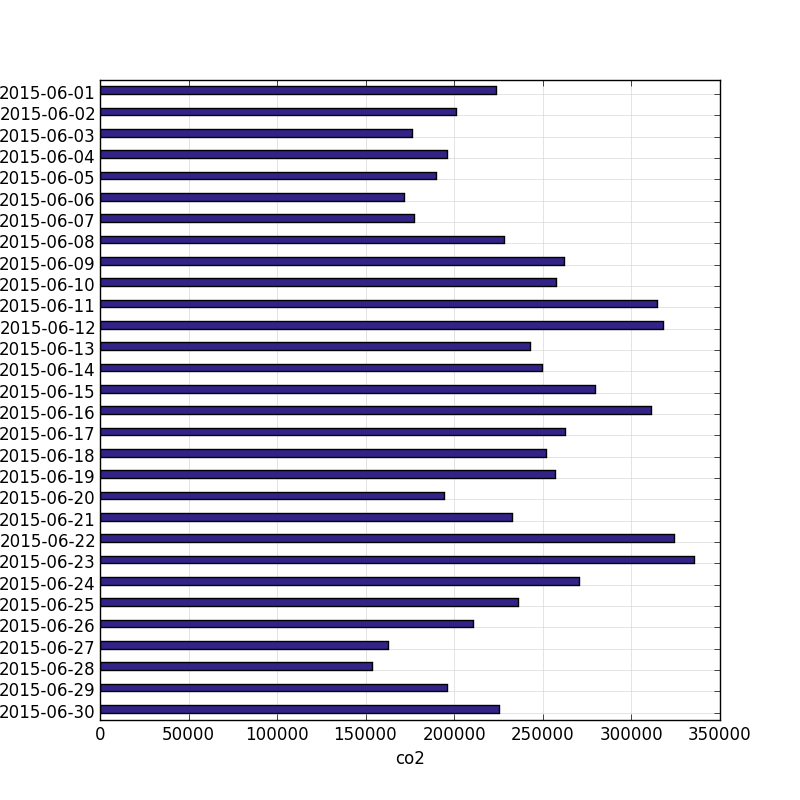
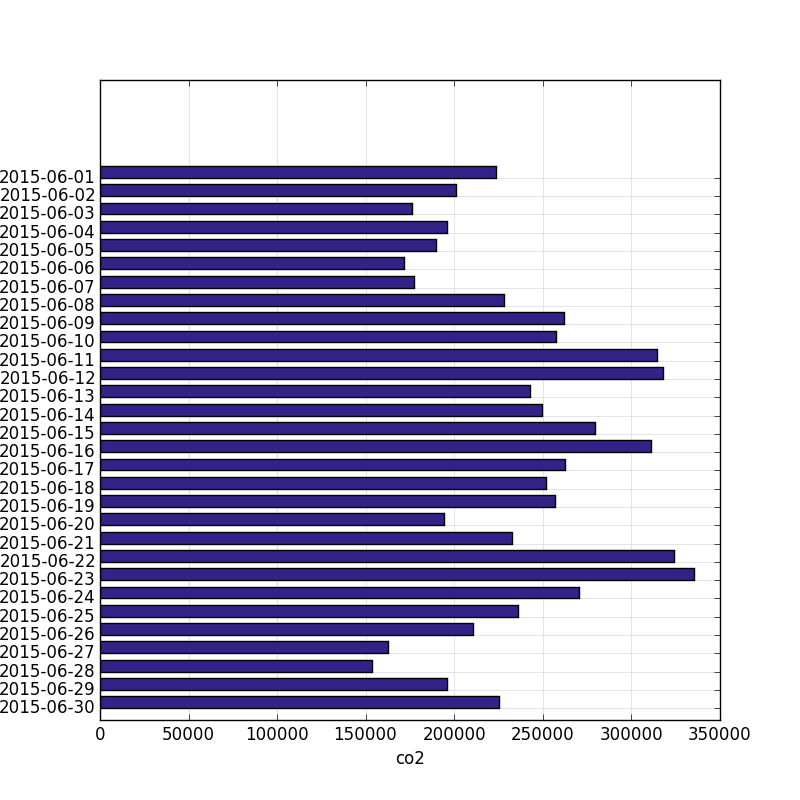
Fit bar and column size better. Closes #22.

diff --git a/agatecharts/table.py b/agatecharts/table.py
@@ -11,7 +11,7 @@ DEFAULT_SIZE = (8, 8)
 DEFAULT_DPI = 72
 
 class TableCharts(object):
-    def bar_chart(self, label_column_name, value_column_names, filename=None, size=None, dpi=DEFAULT_DPI):
+    def bar_chart(self, label_column_name, value_column_names, filename=None, size=DEFAULT_SIZE, dpi=DEFAULT_DPI):
         """
         Plots a bar chart.
 
@@ -28,7 +28,7 @@ class TableCharts(object):
 
         self._plot(chart, filename, size, dpi)
 
-    def column_chart(self, label_column_name, value_column_names, filename=None, size=None, dpi=DEFAULT_DPI):
+    def column_chart(self, label_column_name, value_column_names, filename=None, size=DEFAULT_SIZE, dpi=DEFAULT_DPI):
         """
         Plots a column chart.
 
@@ -45,7 +45,7 @@ class TableCharts(object):
 
         self._plot(chart, filename, size, dpi)
 
-    def line_chart(self, x_column_name, y_column_names, filename=None, size=None, dpi=DEFAULT_DPI):
+    def line_chart(self, x_column_name, y_column_names, filename=None, size=DEFAULT_SIZE, dpi=DEFAULT_DPI):
         """
         Plots a line chart.
 
@@ -63,7 +63,7 @@ class TableCharts(object):
 
         self._plot(chart, filename, size, dpi)
 
-    def scatter_chart(self, x_column_name, y_column_name, filename=None, size=None, dpi=DEFAULT_DPI):
+    def scatter_chart(self, x_column_name, y_column_name, filename=None, size=DEFAULT_SIZE, dpi=DEFAULT_DPI):
         """
         Plots a scatter plot.
 
@@ -78,7 +78,7 @@ class TableCharts(object):
 
         self._plot(chart, filename, size, dpi)
 
-    def _plot(self, chart, filename=None, size=None, dpi=DEFAULT_DPI):
+    def _plot(self, chart, filename=None, size=DEFAULT_SIZE, dpi=DEFAULT_DPI):
         """
         Execute a plot of this :class:`.Table`.
 
@@ -91,9 +91,6 @@ class TableCharts(object):
             canvas to render to.
         :param dpi: A number defining the pixels-per-inch to render.
         """
-        if not size:
-            size = DEFAULT_SIZE
-
         if chart.show_legend():
             size = (
                 size[0] * 1.2,

diff --git a/agatecharts/charts/columns.py b/agatecharts/charts/columns.py
@@ -37,7 +37,7 @@ class Columns(Chart):
         positions = range(len(label_column))
         colors = Qualitative()
         legend_bars = []
-        bar_width = 0.35
+        bar_width = 0.65 / len(self._value_column_names)
 
         for i, value_column_name in enumerate(self._value_column_names):
             value_column = table.columns[value_column_name]

diff --git a/agatecharts/charts/bars.py b/agatecharts/charts/bars.py
@@ -38,7 +38,7 @@ class Bars(Chart):
         positions = range(len(label_column))
         colors = Qualitative()
         legend_bars = []
-        bar_height = 0.35
+        bar_height = 0.65 / len(self._value_column_names)
 
         # Display first value at the top of the chart.
         positions.reverse()
